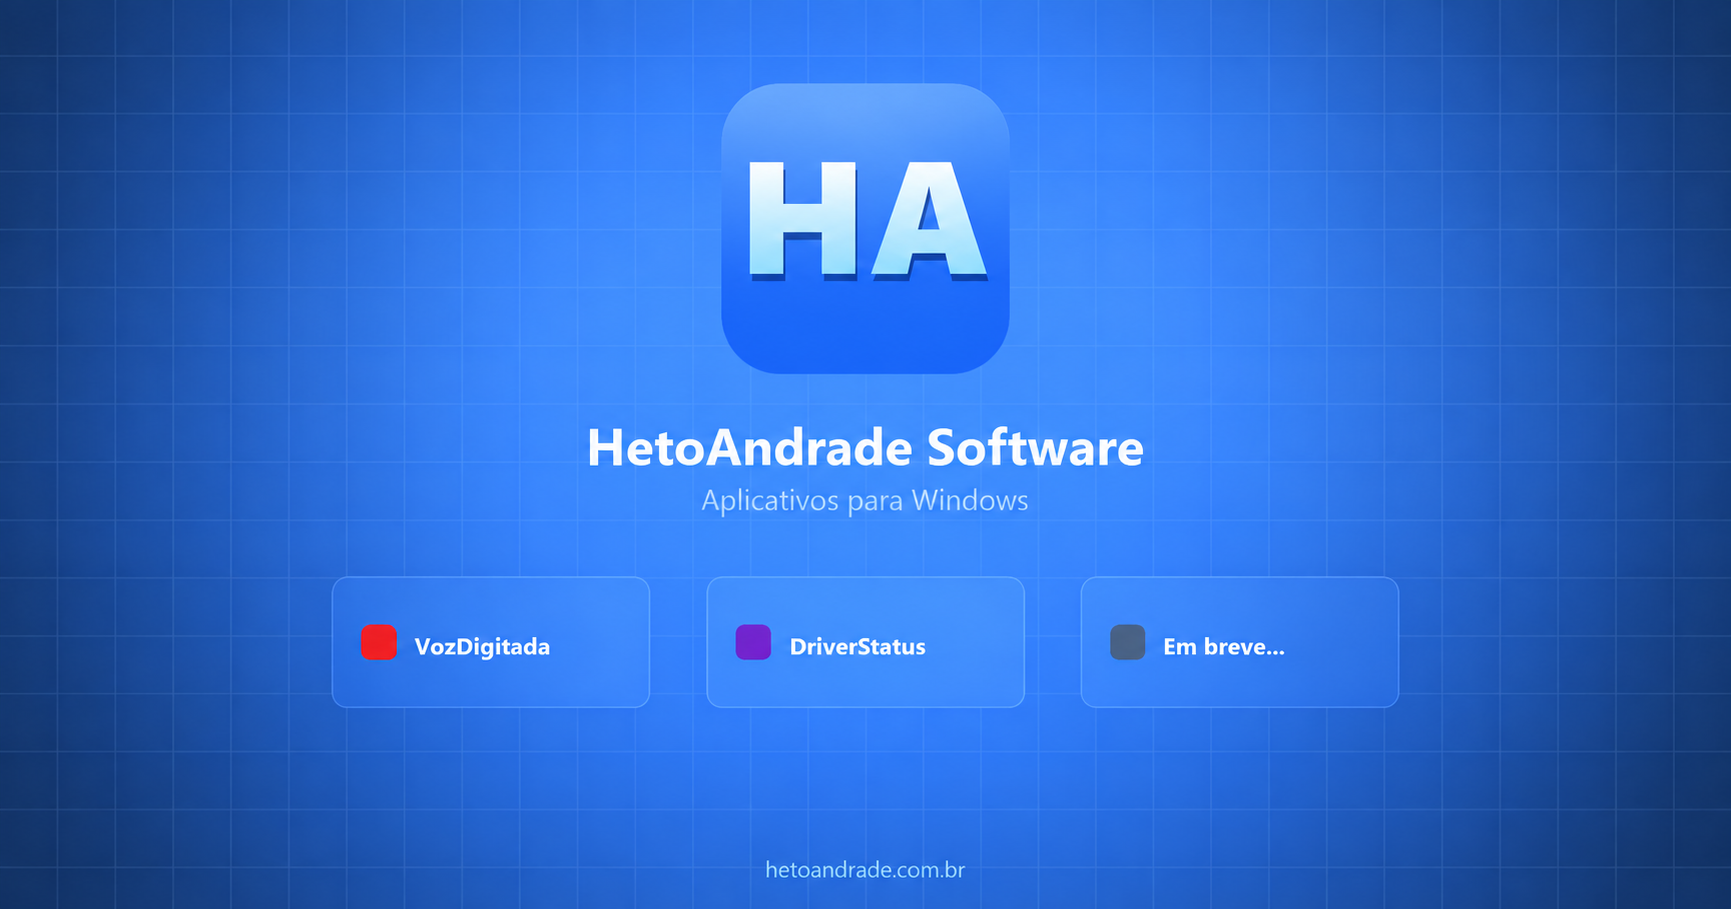
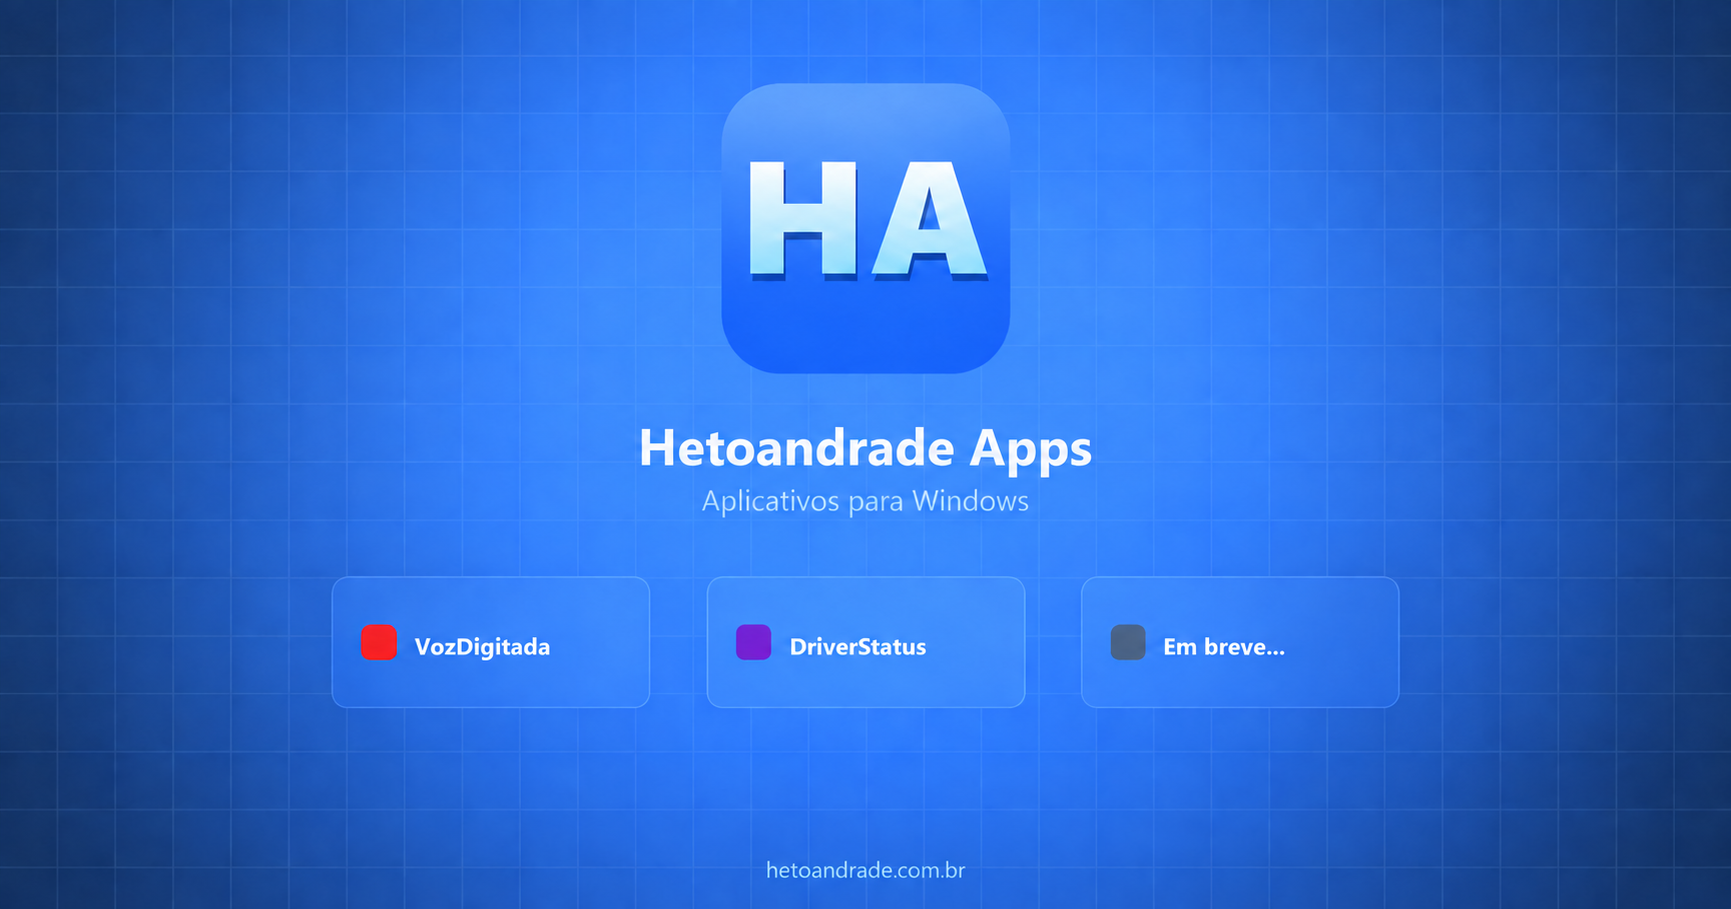
Adota a marca Hetoandrade Apps no site
Atualiza os títulos, o menu, os rodapés, os metadados e as imagens de prévia para Hetoandrade Apps, com a grafia aprovada. Os links e o conteúdo das políticas foram preservados; os dados estruturados e o sitemap foram validados.

diff --git a/index.html b/index.html
@@ -7,19 +7,19 @@
 <meta name="referrer" content="no-referrer">
 
 <!-- SEO -->
-<title>HetoAndrade — Site oficial de aplicativos gratuitos</title>
-<meta name="description" content="Site oficial da HetoAndrade Software. Conheça e baixe aplicativos gratuitos como CopieECole, VozDigitada, DriverStatus, TelaDesk e AjusteHD.">
-<meta name="keywords" content="CopieECole, site CopieECole, copiar entre dispositivos, compartilhar arquivos entre dispositivos, compartilhar textos, navegador, voz digitada, VozDigitada, digitar com a voz, reconhecimento de voz, voz para texto, speech to text, ditado por voz, DriverStatus, driver status, diagnóstico drivers, atualizar drivers, drivers windows, backup drivers, windows update drivers, TelaDesk, acesso remoto, alternativa ao AnyDesk, AjusteHD, gerenciador de partições, comunicação entre dispositivos, HetoAndrade, software gratuito, aplicativo gratuito windows, download grátis, Windows 10, Windows 11, enter automatico, comando de voz, microfone sempre ligado">
-<meta name="author" content="HetoAndrade Software">
+<title>Hetoandrade Apps — Site oficial de aplicativos gratuitos</title>
+<meta name="description" content="Site oficial da Hetoandrade Apps. Conheça e baixe aplicativos gratuitos como CopieECole, VozDigitada, DriverStatus, TelaDesk e AjusteHD.">
+<meta name="keywords" content="CopieECole, site CopieECole, copiar entre dispositivos, compartilhar arquivos entre dispositivos, compartilhar textos, navegador, voz digitada, VozDigitada, digitar com a voz, reconhecimento de voz, voz para texto, speech to text, ditado por voz, DriverStatus, driver status, diagnóstico drivers, atualizar drivers, drivers windows, backup drivers, windows update drivers, TelaDesk, acesso remoto, alternativa ao AnyDesk, AjusteHD, gerenciador de partições, comunicação entre dispositivos, Hetoandrade, software gratuito, aplicativo gratuito windows, download grátis, Windows 10, Windows 11, enter automatico, comando de voz, microfone sempre ligado">
+<meta name="author" content="Hetoandrade Apps">
 <meta name="robots" content="index, follow">
 <link rel="canonical" href="https://hetoandrade.com.br/">
 
 <!-- Open Graph -->
 <meta property="og:type" content="website">
-<meta property="og:title" content="HetoAndrade — Site oficial de aplicativos gratuitos">
-<meta property="og:description" content="Site oficial da HetoAndrade Software. Conheça e baixe aplicativos gratuitos como CopieECole, VozDigitada, DriverStatus, TelaDesk e AjusteHD.">
+<meta property="og:title" content="Hetoandrade Apps — Site oficial de aplicativos gratuitos">
+<meta property="og:description" content="Site oficial da Hetoandrade Apps. Conheça e baixe aplicativos gratuitos como CopieECole, VozDigitada, DriverStatus, TelaDesk e AjusteHD.">
 <meta property="og:url" content="https://hetoandrade.com.br/">
-<meta property="og:site_name" content="HetoAndrade">
+<meta property="og:site_name" content="Hetoandrade Apps">
 <meta property="og:locale" content="pt_BR">
 <meta property="og:image" content="https://hetoandrade.com.br/img/og-site.png">
 <meta property="og:image:width" content="1730">
@@ -27,8 +27,8 @@
 
 <!-- Twitter Card -->
 <meta name="twitter:card" content="summary_large_image">
-<meta name="twitter:title" content="HetoAndrade — Site oficial de aplicativos gratuitos">
-<meta name="twitter:description" content="Site oficial da HetoAndrade Software. Conheça e baixe aplicativos gratuitos como CopieECole, VozDigitada, DriverStatus, TelaDesk e AjusteHD.">
+<meta name="twitter:title" content="Hetoandrade Apps — Site oficial de aplicativos gratuitos">
+<meta name="twitter:description" content="Site oficial da Hetoandrade Apps. Conheça e baixe aplicativos gratuitos como CopieECole, VozDigitada, DriverStatus, TelaDesk e AjusteHD.">
 <meta name="twitter:image" content="https://hetoandrade.com.br/img/og-site.png">
 
 <!-- Schema.org JSON-LD -->
@@ -37,8 +37,8 @@
   "@context": "https://schema.org",
   "@type": "WebSite",
   "@id": "https://hetoandrade.com.br/#website",
-  "name": "HetoAndrade",
-  "alternateName": "HetoAndrade Software",
+  "name": "Hetoandrade Apps",
+  "alternateName": "Hetoandrade",
   "url": "https://hetoandrade.com.br/",
   "inLanguage": "pt-BR",
   "publisher": { "@id": "https://hetoandrade.com.br/#organization" }
@@ -50,14 +50,14 @@
   "@context": "https://schema.org",
   "@type": "Organization",
   "@id": "https://hetoandrade.com.br/#organization",
-  "name": "HetoAndrade Software",
-  "alternateName": "HetoAndrade",
+  "name": "Hetoandrade Apps",
+  "alternateName": "Hetoandrade",
   "url": "https://hetoandrade.com.br/",
   "logo": "https://hetoandrade.com.br/Imagems/ha_icon_v4.png",
   "description": "Aplicativos gratuitos que ajudam no dia a dia.",
   "founder": {
     "@type": "Person",
-    "name": "HetoAndrade"
+    "name": "Hetoandrade"
   }
 }
 </script>
@@ -73,7 +73,7 @@
   "description": "Aplicativo gratuito que captura sua voz e digita automaticamente em qualquer programa.",
   "url": "https://hetoandrade.com.br/",
   "downloadUrl": "https://hetoandrade.com.br/",
-  "author": { "@type": "Person", "name": "HetoAndrade" },
+  "author": { "@type": "Person", "name": "Hetoandrade" },
   "image": "https://hetoandrade.com.br/img/og-icon.png"
 }
 </script>
@@ -90,7 +90,7 @@
   "description": "Compartilhamento temporário de textos, links, fotos e arquivos entre dispositivos, sem cadastro.",
   "url": "https://hetoandrade.com.br/#copieecole",
   "downloadUrl": "https://github.com/hetoandrade/hetoandrade.github.io/releases/download/copieecole-v1.9.0205/CopieECole_Setup_v1.9.0205.exe",
-  "author": { "@type": "Person", "name": "HetoAndrade" },
+  "author": { "@type": "Person", "name": "Hetoandrade" },
   "image": "https://hetoandrade.com.br/Imagems/copieecole-verde.png"
 }
 </script>
@@ -107,7 +107,7 @@
   "description": "Acesso remoto gratuito com conexão por código, convites temporários, permissões explícitas e transferência de arquivos.",
   "url": "https://hetoandrade.com.br/#teladesk",
   "downloadUrl": "https://github.com/hetoandrade/hetoandrade.github.io/releases/download/teladesk-v1.9.0209/TelaDesk-Setup-1.9.0209.exe",
-  "author": { "@type": "Person", "name": "HetoAndrade" },
+  "author": { "@type": "Person", "name": "Hetoandrade" },
   "image": "https://hetoandrade.com.br/Imagems/teladesk.png"
 }
 </script>
@@ -124,7 +124,7 @@
   "description": "Gerenciador gratuito para visualizar, redimensionar, criar e remover partições com revisão antes de aplicar.",
   "url": "https://hetoandrade.com.br/#ajustehd",
   "downloadUrl": "https://github.com/hetoandrade/hetoandrade.github.io/releases/download/ajustehd-v1.9.0203/AjusteHD_Setup_v1.9.0203.exe",
-  "author": { "@type": "Person", "name": "HetoAndrade" },
+  "author": { "@type": "Person", "name": "Hetoandrade" },
   "image": "https://hetoandrade.com.br/Imagems/ajustehd.png"
 }
 </script>
@@ -139,7 +139,7 @@
   "offers": { "@type": "Offer", "price": "0", "priceCurrency": "BRL" },
   "description": "Diagnostica drivers do PC, identifica problemas, integra Windows Update, backup de drivers e assistência por IA.",
   "url": "https://hetoandrade.com.br/",
-  "author": { "@type": "Person", "name": "HetoAndrade" }
+  "author": { "@type": "Person", "name": "Hetoandrade" }
 }
 </script>
 
@@ -227,8 +227,8 @@
     <a href="#" class="logo" onclick="showPage('home'); return false;">
       <img src="Imagems/ha_icon_v4.png" alt="H.A" class="logo-icon-img">
       <div class="logo-text">
-        <span class="logo-name">HetoAndrade</span>
-        <span class="logo-sub">Software</span>
+        <span class="logo-name">Hetoandrade</span>
+        <span class="logo-sub">Apps</span>
       </div>
     </a>
     <button class="sidebar-close-btn" aria-label="Recolher menu" onclick="document.getElementById('sidebar').classList.remove('mobile-open')">
@@ -297,7 +297,7 @@
   </nav>
 
   <div class="sidebar-footer">
-    &copy; 2026 HetoAndrade Software
+    &copy; 2026 Hetoandrade Apps
   </div>
 </aside>
 
@@ -1610,7 +1610,7 @@
 
 
   <footer class="site-footer">
-    <div>&copy; 2026 HetoAndrade Software &mdash; Aplicativos que ajudam no dia a dia</div>
+    <div>&copy; 2026 Hetoandrade Apps &mdash; Aplicativos que ajudam no dia a dia</div>
     <div class="footer-links">
       <a href="privacidade-copieecole.html">Privacidade CopieECole</a>
       <a href="privacidade.html">Privacidade VozDigitada</a>

diff --git a/404.html b/404.html
@@ -5,7 +5,7 @@
 <meta name="viewport" content="width=device-width, initial-scale=1.0">
 <meta http-equiv="Content-Security-Policy" content="default-src 'self'; base-uri 'none'; object-src 'none'; frame-src 'none'; form-action 'none'; script-src 'none'; style-src 'unsafe-inline' https://fonts.googleapis.com; font-src https://fonts.gstatic.com; img-src 'self'; upgrade-insecure-requests">
 <meta name="referrer" content="no-referrer">
-<title>Página não encontrada — HetoAndrade Software</title>
+<title>Página não encontrada — Hetoandrade Apps</title>
 <meta name="robots" content="noindex">
 <style>
   @import url('https://fonts.googleapis.com/css2?family=Inter:wght@400;600;800&display=swap');
@@ -54,7 +54,7 @@
   }
   .logo img { width: 36px; height: 36px; border-radius: 8px; }
   .logo-name { font-size: 16px; font-weight: 700; color: #e2e8f0; }
-  .logo-sub { font-size: 11px; color: #64748b; text-transform: uppercase; letter-spacing: 1px; }
+  .logo-sub { font-size: 11px; color: #64748b; letter-spacing: 1px; }
 </style>
 </head>
 <body>
@@ -62,8 +62,8 @@
     <a href="https://hetoandrade.com.br/" class="logo">
       <img src="Imagems/ha_icon_v4.png" alt="HA">
       <div style="text-align:left;">
-        <div class="logo-name">HetoAndrade</div>
-        <div class="logo-sub">Software</div>
+        <div class="logo-name">Hetoandrade</div>
+        <div class="logo-sub">Apps</div>
       </div>
     </a>
     <div class="error-code">404</div>

diff --git a/privacidade-driverstatus.html b/privacidade-driverstatus.html
@@ -5,9 +5,9 @@
     <meta name="viewport" content="width=device-width, initial-scale=1.0">
     <meta http-equiv="Content-Security-Policy" content="default-src 'self'; base-uri 'none'; object-src 'none'; frame-src 'none'; form-action 'none'; script-src 'unsafe-inline'; style-src 'unsafe-inline'; upgrade-insecure-requests">
     <meta name="referrer" content="no-referrer">
-    <title>Política de Privacidade - DriverStatus | HetoAndrade Software</title>
+    <title>Política de Privacidade - DriverStatus | Hetoandrade Apps</title>
     <meta name="description" content="Política de privacidade do DriverStatus. O aplicativo analisa drivers localmente, não coleta dados pessoais e respeita sua privacidade.">
-    <meta name="keywords" content="privacidade, DriverStatus, proteção de dados, LGPD, política de privacidade, HetoAndrade, drivers">
+    <meta name="keywords" content="privacidade, DriverStatus, proteção de dados, LGPD, política de privacidade, Hetoandrade, drivers">
     <link rel="canonical" href="https://hetoandrade.com.br/privacidade-driverstatus.html">
     <meta property="og:type" content="website">
     <meta property="og:title" content="Política de Privacidade - DriverStatus">

diff --git a/privacidade.html b/privacidade.html
@@ -5,9 +5,9 @@
     <meta name="viewport" content="width=device-width, initial-scale=1.0">
     <meta http-equiv="Content-Security-Policy" content="default-src 'self'; base-uri 'none'; object-src 'none'; frame-src 'none'; form-action 'none'; script-src 'unsafe-inline'; style-src 'unsafe-inline'; upgrade-insecure-requests">
     <meta name="referrer" content="no-referrer">
-    <title>Política de Privacidade - VozDigitada | HetoAndrade Software</title>
+    <title>Política de Privacidade - VozDigitada | Hetoandrade Apps</title>
     <meta name="description" content="Política de privacidade do VozDigitada. O aplicativo não cria cadastro nem armazena gravações e usa o reconhecimento de fala configurado no Windows.">
-    <meta name="keywords" content="privacidade, VozDigitada, proteção de dados, LGPD, política de privacidade, HetoAndrade">
+    <meta name="keywords" content="privacidade, VozDigitada, proteção de dados, LGPD, política de privacidade, Hetoandrade">
     <link rel="canonical" href="https://hetoandrade.com.br/privacidade.html">
     <meta property="og:type" content="website">
     <meta property="og:title" content="Política de Privacidade - VozDigitada">

diff --git a/privacidade-copieecole.html b/privacidade-copieecole.html
@@ -5,7 +5,7 @@
     <meta name="viewport" content="width=device-width, initial-scale=1.0">
     <meta http-equiv="Content-Security-Policy" content="default-src 'self'; base-uri 'none'; object-src 'none'; frame-src 'none'; form-action 'none'; script-src 'unsafe-inline'; style-src 'unsafe-inline'; upgrade-insecure-requests">
     <meta name="referrer" content="no-referrer">
-    <title>Política de Privacidade - CopieECole | HetoAndrade Software</title>
+    <title>Política de Privacidade - CopieECole | Hetoandrade Apps</title>
     <meta name="description" content="Política de privacidade do CopieECole: acesso sem cadastro, proteção da conversa, retenção temporária e tratamento de mensagens e arquivos.">
     <link rel="canonical" href="https://hetoandrade.com.br/privacidade-copieecole.html">
     <meta property="og:type" content="website">

diff --git a/privacidade-teladesk.html b/privacidade-teladesk.html
@@ -5,7 +5,7 @@
     <meta name="viewport" content="width=device-width, initial-scale=1.0">
     <meta http-equiv="Content-Security-Policy" content="default-src 'self'; base-uri 'none'; object-src 'none'; frame-src 'none'; form-action 'none'; script-src 'unsafe-inline'; style-src 'unsafe-inline'; upgrade-insecure-requests">
     <meta name="referrer" content="no-referrer">
-    <title>Política de Privacidade - TelaDesk | HetoAndrade Software</title>
+    <title>Política de Privacidade - TelaDesk | Hetoandrade Apps</title>
     <meta name="description" content="Política de privacidade do TelaDesk: sessões remotas, convites, permissões, arquivos, área de transferência, credenciais e logs.">
     <link rel="canonical" href="https://hetoandrade.com.br/privacidade-teladesk.html">
     <meta property="og:type" content="website">

diff --git a/privacidade-ajustehd.html b/privacidade-ajustehd.html
@@ -5,7 +5,7 @@
     <meta name="viewport" content="width=device-width, initial-scale=1.0">
     <meta http-equiv="Content-Security-Policy" content="default-src 'self'; base-uri 'none'; object-src 'none'; frame-src 'none'; form-action 'none'; script-src 'unsafe-inline'; style-src 'unsafe-inline'; upgrade-insecure-requests">
     <meta name="referrer" content="no-referrer">
-    <title>Política de Privacidade - AjusteHD | HetoAndrade Software</title>
+    <title>Política de Privacidade - AjusteHD | Hetoandrade Apps</title>
     <meta name="description" content="Política de privacidade do AjusteHD: processamento local de discos, elevação administrativa, PreOS, logs e atualizações.">
     <link rel="canonical" href="https://hetoandrade.com.br/privacidade-ajustehd.html">
     <meta property="og:type" content="website">

diff --git a/style.css b/style.css
@@ -128,7 +128,7 @@ body::before {
 
 .logo-text { display: flex; flex-direction: column; }
 .logo-name { font-size: 16px; font-weight: 700; color: white; letter-spacing: -0.3px; }
-.logo-sub { font-size: 11px; color: var(--text-subtle); font-weight: 500; text-transform: uppercase; letter-spacing: 1.5px; }
+.logo-sub { font-size: 11px; color: var(--text-subtle); font-weight: 500; letter-spacing: 1.5px; }
 
 .sidebar-nav {
   flex: 1;
